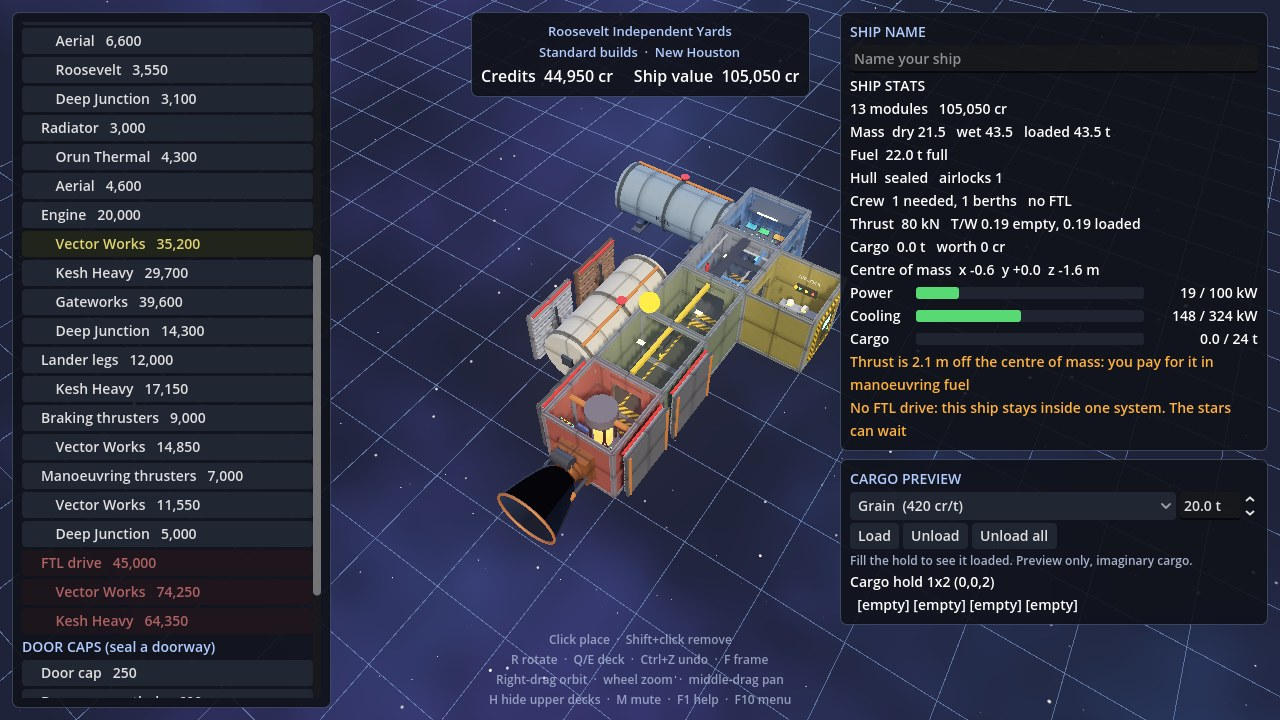
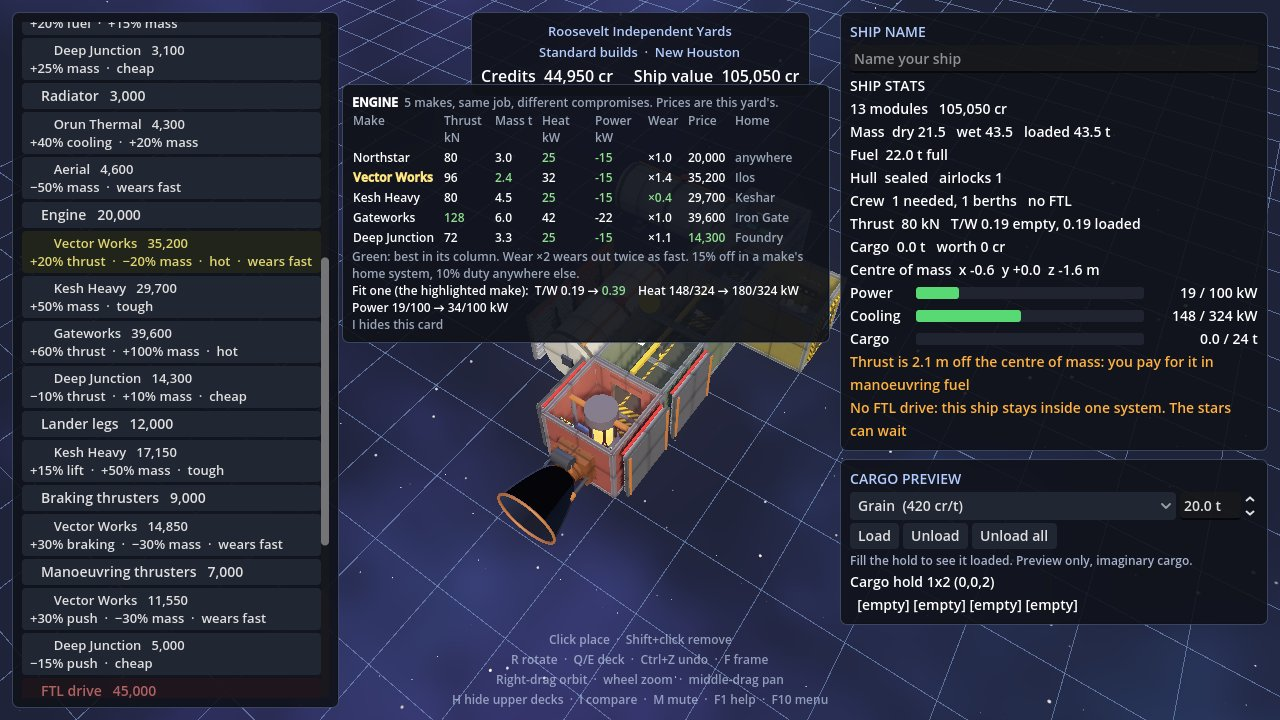
0.14.1: compare parts in the shipyard
Trait tags under each maker's version, a comparison card lining up every make
of the selected part with the best in each column, and what fitting one does
to the ship (T/W, heat, power, fuel, lift, braking, jump speed, hold).

Claude-Session: https://claude.ai/code/session_017WQZxixKYwD8gqsFUSbatN

Changed region(s): [[0.0, 0.0306, 0.6562, 0.9778], [0.0312, 0.0306, 0.1562, 0.275], [0.3438, 0.9472, 0.6562, 0.9778]]

diff --git a/site/index.html b/site/index.html
@@ -43,8 +43,8 @@
       </div>
       <p class="note">One portable file for 64-bit Windows, about 42 MB zipped. Unzip it anywhere and run FarHaul.exe; nothing is installed. Needs a mouse and keyboard.</p>
       <dl class="slip">
-        <div><dt>Version</dt><dd>0.14.0, prototype</dd></div>
-        <div><dt>You can</dt><dd>Build and name a ship, take freight from a living economy, fly local runs and dock, fit an FTL drive and jump between stars, walk your ship and ports that look like the people who built them, take work from people at the bar, hire a crew, land on moons and work outside in a suit, go out on a tether to patch the hull and service worn parts, share space with other ships, strip derelicts for salvage and cargo, go aboard them to read their logs and bring their crews home, fit their parts to your own ship, read the trade report to see who's short of what, fly all the way out to Saturn's rings if your tanks are up to it, and fly the long hauls from a phone on the sofa</dd></div>
+        <div><dt>Version</dt><dd>0.14.1, prototype</dd></div>
+        <div><dt>You can</dt><dd>Build and name a ship, take freight from a living economy, fly local runs and dock, fit an FTL drive and jump between stars, walk your ship and ports that look like the people who built them, take work from people at the bar, hire a crew, land on moons and work outside in a suit, go out on a tether to patch the hull and service worn parts, share space with other ships, strip derelicts for salvage and cargo, go aboard them to read their logs and bring their crews home, fit their parts to your own ship, compare eight makers' engines and radiators before you buy, read the trade report to see who's short of what, fly all the way out to Saturn's rings if your tanks are up to it, and fly the long hauls from a phone on the sofa</dd></div>
         <div><dt>Not yet</dt><dd>Talking to other ships, frontier growth, planets with air, and danger beyond the bank. Patience is required and, sadly, not sold anywhere</dd></div>
       </dl>
     </div>
@@ -78,7 +78,7 @@
       <li class="now">Trade report<small>The economy, out where you can see it</small></li>
       <li class="now">Fitting salvaged parts<small>Wrecks into upgrades, at the condition they came in</small></li>
       <li class="now">Boarding derelicts<small>Inside the dark wreck: the log, the recorder, the crew</small></li>
-      <li class="now">Manufacturers<small>Eight makers, each with habits, cheaper at home</small></li>
+      <li class="now">Manufacturers<small>Eight makers, each with habits, cheaper at home, compared side by side</small></li>
     </ol>
     <h3>Coming next</h3>
     <p>In roughly this order, over the next few releases. Roughly, because plans are like cargo manifests: accurate until loading.</p>
@@ -105,7 +105,7 @@
           <tr><th scope="row">Landing and exploring</th><td>Land on rocky worlds and moons, then explore by ship, rover and on foot.</td><td>Every system has a moon (grey, ice, dust or heavy, each with its own gravity; Sol's is Luna) with a base pad and a mining camp you land on by hand. Lander legs open surface-only freight that pays more, and runs start by lifting off the surface. In a suit you have air to watch and kit to buy (bigger tanks, boots, a scanner, suit jets), timed missions to do, crates to carry at the camp, and samples, salvage, ice and rare crystals to find. Each moon also has an abandoned outpost, an ice mine and a deep glass crater, with boulders and slopes to land around, ideally not on.</td><td><span class="chip rough">Rough</span></td></tr>
           <tr><th scope="row">Space walks and repair</th><td>Go out through the airlock on a tether to fix radiators, engines and hull damage.</td><td>Out of the airlock in space on a 30 m tether, on the suit's air and jets. Fix the hull's scorch marks by hand: a wrench for loose plating, a torch and a patch kit for holes, up to 50%. A ship that burns, brakes or spins strains the tether, and it can snap. Worn engines, radiators and thrusters can be serviced out there too, up to 50%. Tether over to a derelict and the torch cuts its salvage panels free, its cargo hatch open, and its airlock door, to walk the dark ship inside on mag boots and suit air.</td><td><span class="chip rough">Rough</span></td></tr>
           <tr><th scope="row">Living economy</th><td>Freight demand that comes from what places produce and need. Frontier outposts that grow because you supplied them.</td><td>A simulation of production, stock, orders and shipping carriers across all eighteen systems runs alongside you. Easy, Normal and Hard change your costs and pay, not the world; Hard lives a few bad days from insolvency. The other carriers fly where you can see them, and salvage you sell lands on the buyer's shelves. Press N for the trade report: a month of freight, prices and shortages across known space, the lanes and the ships on them, every company's takings, and your own share and mark. Frontier growth isn't built yet.</td><td><span class="chip rough">Rough</span></td></tr>
-          <tr><th scope="row">Manufacturers and wear</th><td>Parts from companies with recognisable engineering habits. Components wear and fail where you can see it.</td><td>Engines, radiators, thrusters, lander legs and the FTL drive wear with use and knocks, work less well as they go and stop when they fail; a failed drive doesn't jump. Service them yourself on a space walk, bring a failed one back with a spares kit, or have the yard overhaul the lot. Eight makers from the canon build the engines, radiators, tanks, legs, thrusters and drives, each with habits: Vector Works light, strong and hot, Kesh Heavy heavy and nearly unkillable, Gateworks huge, Deep Junction cheap, Orun Thermal cool. Every yard sells every make; a maker's own system sells it 15% cheaper and everywhere else adds duty. Their parts wear at their own rates, and turn up on wrecks. Hull damage stays with the ship until you pay a repair desk, and prices differ from port to port, so shop around while dented. Short of cash, the desk patches what you can afford, or enough to fly freight again on account. You can see the damage from outside: scorches, venting plates and sparks.</td><td><span class="chip rough">Rough</span></td></tr>
+          <tr><th scope="row">Manufacturers and wear</th><td>Parts from companies with recognisable engineering habits. Components wear and fail where you can see it.</td><td>Engines, radiators, thrusters, lander legs and the FTL drive wear with use and knocks, work less well as they go and stop when they fail; a failed drive doesn't jump. Service them yourself on a space walk, bring a failed one back with a spares kit, or have the yard overhaul the lot. Eight makers from the canon build the engines, radiators, tanks, legs, thrusters and drives, each with habits: Vector Works light, strong and hot, Kesh Heavy heavy and nearly unkillable, Gateworks huge, Deep Junction cheap, Orun Thermal cool. Every yard sells every make; a maker's own system sells it 15% cheaper and everywhere else adds duty. The shipyard says how each make differs, lines up the whole family side by side with the best in each column picked out, and shows what fitting one would do to your thrust, heat and power before you pay. Their parts wear at their own rates, and turn up on wrecks. Hull damage stays with the ship until you pay a repair desk, and prices differ from port to port, so shop around while dented. Short of cash, the desk patches what you can afford, or enough to fly freight again on account. You can see the damage from outside: scorches, venting plates and sparks.</td><td><span class="chip rough">Rough</span></td></tr>
           <tr><th scope="row">Crew, passengers, salvage, combat</th><td>People who live aboard, wrecks worth boarding, and danger that is a cost to avoid rather than the main event.</td><td>Hire crew at the bar, with names in their own people's styles, a skill and a wage, and let them go when you must. Each job earns its pay: an engineer slows wear and services parts, a deck tech patches the hull, a pilot flies leaner and takes the brake point, a loadmaster saves the load, a steward earns better fares. They stand at their posts when you walk the ship. A big hold needs hands before it takes freight. Passengers ride along in spare berths. Wrecks and an abandoned outpost on the moons can be stripped for salvage, and derelicts drift near the stations: space walk over, torch salvage panels off the hull, cut the cargo hatch open and haul out the crates, supplies and parts, then sell them in port or fit the parts to your own ship. Cut their airlock door and go aboard: the log tells you what happened, the flight recorder pays an insurer's bounty, the crew who didn't make it go home to their families through the port authority, and now and then someone did make it, and might sign on. Other haulers hold station by every port, come and go, and pass you on long runs; pods run errands, survey ships head out, tenders orbit, and ships stranded by failed jumps drift out on the routes. No combat yet. It's quiet out here. Suspiciously quiet.</td><td><span class="chip rough">Rough</span></td></tr>
         </tbody>
       </table>
@@ -258,7 +258,7 @@
         <figcaption><strong>Salvage.</strong> A derelict's panels come off with a torch and some patience, then go home one armful at a time.</figcaption>
       </figure>
       <figure>
-        <button class="shot" data-full="img/makers.jpg" data-cap="Makers." aria-label="Open the manufacturers screenshot full size"><img src="img/makers.jpg" width="1280" height="720" loading="lazy" alt="The shipyard parts list with each maker's version of a part indented under it, with local prices: Vector Works, Kesh Heavy, Gateworks and Deep Junction engines, Orun Thermal and Aerial radiators; beside it the ship with an Orun Thermal and an Aerial radiator and a Roosevelt tank fitted."></button>
+        <button class="shot" data-full="img/makers.jpg" data-cap="Makers, compared." aria-label="Open the manufacturers screenshot full size"><img src="img/makers.jpg" width="1280" height="720" loading="lazy" alt="The shipyard parts list with each maker's version of a part indented under it, its local price and how it differs, such as +20% thrust, −20% mass, hot, wears fast. Beside it a card compares all five engines by thrust, mass, heat, power, wear, price and home system, with the best in each column in green, and shows that fitting the Vector Works engine would take the ship from 0.19 to 0.39 thrust-to-weight."></button>
         <figcaption><strong>Makers.</strong> Eight companies, each sure they're right. Cheaper where they're made, dearer everywhere else.</figcaption>
       </figure>
       <figure>
@@ -438,6 +438,7 @@
             <tr><th scope="row">Save, clear</th><td><kbd>S</kbd>, <kbd>C</kbd></td></tr>
             <tr><th scope="row">Leave the shipyard</th><td><kbd>L</kbd></td></tr>
             <tr><th scope="row">Mute sound</th><td><kbd>M</kbd></td></tr>
+            <tr><th scope="row">Hide or show the parts comparison</th><td><kbd>I</kbd></td></tr>
             <tr><th scope="row">Show the help text</th><td><kbd>F1</kbd></td></tr>
           </tbody>
         </table>
@@ -583,7 +584,7 @@
 
     <h3>The prototype</h3>
     <dl class="facts">
-      <dt>Version</dt><dd>0.14.0, prototype</dd>
+      <dt>Version</dt><dd>0.14.1, prototype</dd>
       <dt>Built with</dt><dd>Godot 4.4, written in GDScript, using the Forward+ renderer (Vulkan) on Windows.</dd>
       <dt>Art and sound</dt><dd>The textures, sky, logo and every sound effect (engines, footsteps, room tone, the suit, the jump) are generated in code. Earth's coastlines come from NOAA's public-domain GLOBE elevation data. The theme song is a custom track. The intro video is a placeholder, and knows it.</dd>
       <dt>Placeholders</dt><dd>Prices, part stats and the intro video will all change, usually at the worst possible moment.</dd>
@@ -598,7 +599,7 @@
 <footer>
   <div class="wrap">
     <span class="code">FHCU 000001-0</span>
-    <span>Far Haul prototype 0.14.0</span>
+    <span>Far Haul prototype 0.14.1</span>
     <span><a href="https://github.com/benjaminarthurt/FarHaul/releases/latest">Download for Windows</a> &nbsp; <a href="https://github.com/benjaminarthurt/FarHaul">Source on GitHub</a></span>
     <a class="studio-badge" href="https://signalfoundry.games/" target="_blank" rel="noopener" aria-label="Built at Signal Foundry Games"><span class="studio-badge-kicker">BUILT AT</span><strong>SIGNAL FOUNDRY</strong><span class="studio-badge-sub">GAMES</span></a>
   </div>

diff --git a/docs/runtime/part_makers.md b/docs/runtime/part_makers.md
@@ -20,8 +20,21 @@ data/runtime/part_makers.json, makers' canon in data/world/manufacturers.json.
   40% of the standard rate and a Vector Works engine at 140%.
 - Wrecks: the parts in a derelict's hold are sometimes another maker's (`PartMakers.on_a_wreck`, 60% of
   the time when the part has versions).
-- The palette lists each maker's version indented under its part, with the local price; the tooltip
-  says who makes it and where, their line, list price against here, and how fast it wears.
+- The palette lists each maker's version indented under its part, with the local price and a line of
+  tags (`PartMakers.tags`): the headline number's change against the standard part (thrust, cooling,
+  fuel, lift, braking, push, or jump speed in points), mass if it moves 5% or more, "hot" (heat over
+  1.15× the part's), "wears fast" (wear ×1.25 or more) or "tough" (×0.6 or less), "cheap" (list price
+  0.8× or less). The tooltip says who makes it and where, their line, list price against here, and how
+  fast it wears.
+- The comparison card (`PartCompare`, scripts/part_compare.gd; I hides it) sits under the top bar for
+  the selected part or salvaged part. For a part with makers' versions (`PartMakers.family`) it is a
+  table, one row per make: headline number (`PartMakers.headline`), mass, heat made (not for
+  radiators), power (if any differ), wear multiplier, price at this yard and home system, the best in
+  each column in green (`PartCompare.best`; ties all green, nothing when all equal). Every part gets a
+  "Fit one" line (`PartCompare.effect`) projected from the ship's current ShipStats: T/W (wet), heat
+  made against cooling, power used against made (red with "over!" if it tips over), fuel, lift and
+  braking at the loaded mass, push, jump speed and hold size. Lines that don't change are left out.
+  It assumes engines face aft and braking thrusters face forward.
 
 | Maker | Home | Parts | Trade-off |
 |---|---|---|---|

diff --git a/docs/releases/v0.14.1.md b/docs/releases/v0.14.1.md
@@ -1,0 +1,16 @@
+Far Haul 0.14.1 for Windows, in which the shipyard stops expecting you to memorise eight brochures.
+
+**Download** `FarHaul-windows-0.14.1.zip` under Assets below. Not the Source code files: those are GitHub's, and they compare poorly. Unzip it anywhere and run `FarHaul\FarHaul.exe`. Nothing is installed. Saves go in a `Far Haul saves` folder next to the exe, and saves from earlier versions still load.
+
+**On first run** Windows SmartScreen may say "Windows protected your PC", because the exe is not code-signed. Choose **More info**, then **Run anyway**.
+
+### Telling parts apart
+0.14.0 gave you eight makers and a list of names and prices, which is how most people buy engines and how most engines end up in the wrong ship. Now:
+- **Each make says how it differs.** Under its price, every maker's version lists what it does differently from the standard part: "+20% thrust · −20% mass · hot · wears fast", "+50% mass · tough", "−10% thrust · cheap". Brochure honesty, at last.
+- **The comparison card.** Pick any part and the whole family lines up side by side: thrust (or cooling, fuel, lift, braking, push), mass, heat, power, wear rate, the price at this yard, and which system makes it cheapest. The best in each column is in green, the one you've picked in yellow.
+- **What it does to your ship.** The card ends with what fitting one would change, before you pay: "T/W 0.19 → 0.39", "Heat 148/149 → 190/149 kW over!" in red when it would cook you, and fuel, lift, braking, jump speed or hold size where they move. Works for every part, including corridors, which mostly make you slower.
+- **I** hides the card when you'd rather look at the ship.
+
+### Known limits
+- The projection assumes engines face aft and braking thrusters face the bow, which is where they go if you want to arrive.
+- The card sits over the top of the view. On a small window it's I or squint.

diff --git a/docs/design-notes.md b/docs/design-notes.md
@@ -30,7 +30,8 @@ Not all at once. In the order requested:
 8. The trade report: the economy simulation made visible (**built** in 0.11.0)
 9. Fitting salvaged parts, at their condition, for a fitting fee (**built** in 0.12.0)
 10. Boarding derelicts: the log, the flight recorder, the crew and the odd survivor (**built** in 0.13.0)
-11. Manufacturers: makers' versions of the external parts, cheaper at home (**built** in 0.14.0)
+11. Manufacturers: makers' versions of the external parts, cheaper at home (**built** in 0.14.0; the
+    shipyard compares them side by side in 0.14.1)
 
 The ship builder came first because everything else reads from the ship it produces.
 
